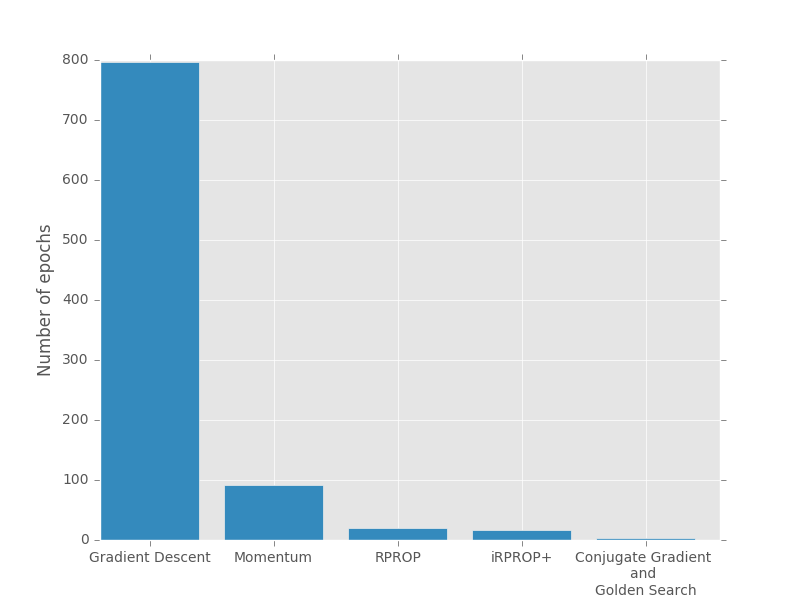
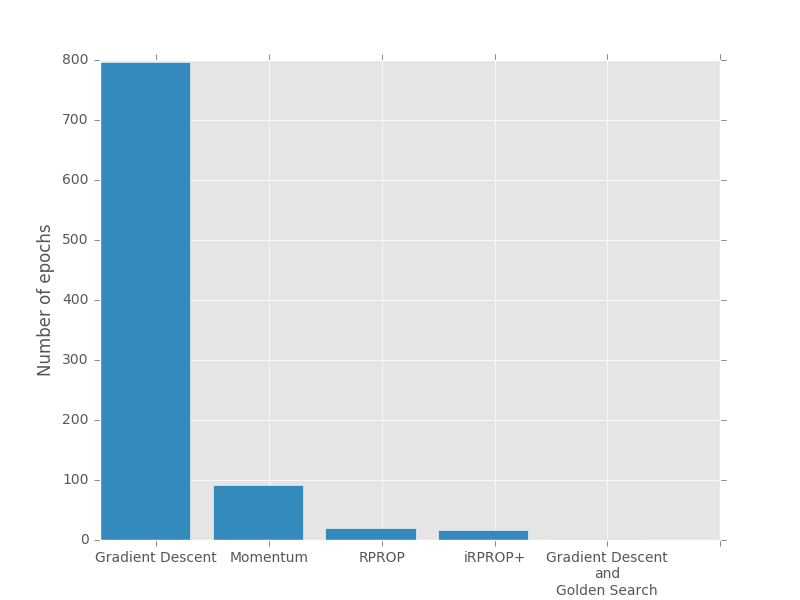
Updated article.

diff --git a/neupy/algorithms/gd/lev_marq.py b/neupy/algorithms/gd/lev_marq.py
@@ -82,8 +82,6 @@ class LevenbergMarquardt(NoStepSelection, GradientDescent):
 
     Examples
     --------
-    Simple example
-
     >>> import numpy as np
     >>> from neupy import algorithms
     >>>
@@ -95,48 +93,6 @@ class LevenbergMarquardt(NoStepSelection, GradientDescent):
     ...     verbose=False
     ... )
     >>> lmnet.train(x_train, y_train)
-
-    Diabets dataset example
-
-    >>> import numpy as np
-    >>> from sklearn import datasets, preprocessing
-    >>> from sklearn.cross_validation import train_test_split
-    >>> from neupy import algorithms, layers
-    >>> from neupy.estimators import rmsle
-    >>>
-    >>> dataset = datasets.load_diabetes()
-    >>> data, target = dataset.data, dataset.target
-    >>>
-    >>> data_scaler = preprocessing.MinMaxScaler()
-    >>> target_scaler = preprocessing.MinMaxScaler()
-    >>>
-    >>> x_train, x_test, y_train, y_test = train_test_split(
-    ...     data_scaler.fit_transform(data),
-    ...     target_scaler.fit_transform(target),
-    ...     train_size=0.85
-    ... )
-    >>>
-    >>> # Network
-    ... lmnet = algorithms.LevenbergMarquardt(
-    ...     connection=[
-    ...         layers.Input(10),
-    ...         layers.Sigmoid(40),
-    ...         layers.Sigmoid(1),
-    ...     ],
-    ...     mu_update_factor=2,
-    ...     mu=0.1,
-    ...     step=0.25,
-    ...     show_epoch=10,
-    ...     use_bias=False,
-    ...     verbose=False
-    ... )
-    >>> lmnet.train(x_train, y_train, epochs=100)
-    >>> y_predict = lmnet.predict(x_test)
-    >>>
-    >>> error = rmsle(target_scaler.inverse_transform(y_test),
-    ...               target_scaler.inverse_transform(y_predict).round())
-    >>> error
-    0.47548200957888398
 
     See Also
     --------

diff --git a/examples/mlp/gd_algorithms_visualization.py b/examples/mlp/gd_algorithms_visualization.py
@@ -144,8 +144,9 @@ draw_countour(
     network_target_function
 )
 
-cgnet_class = partial(algorithms.ConjugateGradient,
-                      addons=[algorithms.LinearSearch])
+cgnet_class = partial(algorithms.GradientDescent,
+                      addons=[algorithms.LinearSearch],
+                      search_method='golden')
 momentum_class = partial(algorithms.Momentum, batch_size='full')
 
 algorithms = (
@@ -153,7 +154,7 @@ algorithms = (
     (momentum_class, 'Momentum', 'g'),
     (algorithms.RPROP, 'RPROP', 'm'),
     (algorithms.IRPROPPlus, 'iRPROP+', 'r'),
-    (cgnet_class, 'Conjugate Gradient', 'y'),
+    (cgnet_class, 'Gradient Descent and\nGolden Search', 'y'),
 )
 
 patches = []

diff --git a/neupy/algorithms/step_update/leak_step.py b/neupy/algorithms/step_update/leak_step.py
@@ -39,12 +39,10 @@ class LeakStepAdaptation(SingleStepConfigurable):
     Examples
     --------
     >>> from neupy import algorithms
-    >>>
     >>> bpnet = algorithms.GradientDescent(
     ...     (2, 4, 1),
     ...     addons=[algorithms.LeakStepAdaptation]
     ... )
-    >>>
 
     .. [1] Noboru M. "Adaptive on-line learning in changing
         environments", 1997

diff --git a/neupy/algorithms/regularization/weight_elimination.py b/neupy/algorithms/regularization/weight_elimination.py
@@ -29,14 +29,12 @@ class WeightElimination(WeightUpdateConfigurable):
     Examples
     --------
     >>> from neupy import algorithms
-    >>>
     >>> bpnet = algorithms.GradientDescent(
     ...     (2, 4, 1),
     ...     step=0.1,
     ...     verbose=False,
     ...     addons=[algorithms.WeightElimination]
     ... )
-    >>>
 
     See Also
     --------

diff --git a/neupy/algorithms/regularization/weight_decay.py b/neupy/algorithms/regularization/weight_decay.py
@@ -23,14 +23,12 @@ class WeightDecay(WeightUpdateConfigurable):
     Examples
     --------
     >>> from neupy import algorithms
-    >>>
     >>> bpnet = algorithms.GradientDescent(
     ...     (2, 4, 1),
     ...     step=0.1,
     ...     verbose=False,
     ...     addons=[algorithms.WeightDecay]
     ... )
-    >>>
 
     See Also
     --------

diff --git a/neupy/algorithms/gd/conjgrad.py b/neupy/algorithms/gd/conjgrad.py
@@ -120,7 +120,7 @@ class ConjugateGradient(NoMultipleStepSelection, GradientDescent):
     >>>
     >>> error = estimators.rmsle(real, predicted)
     >>> error
-    0.20752676697596578
+    0.2472330191179734
 
     See Also
     --------

diff --git a/site/2015/07/04/visualize_backpropagation_algorithms.rst b/site/2015/07/04/visualize_backpropagation_algorithms.rst
@@ -3,7 +3,7 @@ Visualize Algorithms based on the Backpropagation
 
 .. contents::
 
-In this article we will test different algorithms based on the backpropagation method, visualize them and try to figure out some important features from a plot that we will get.
+In this article we will be testing different algorithms based on the backpropagation method, visualizing them and trying to figure out some important features from a blog that we will get.
 
 Checking data
 -------------
@@ -45,31 +45,31 @@ So we can make a scatter plot and look closer at this dots.
     :align: center
     :alt: Dataset scatter plot
 
-From the figure above we can clearly see that all dots are linearly separable and we are able to solve this problem with simple perceptron. But a goal of this article is to make clear visualization of learning process for different algorithm based on the backpropagation method, so the problem must be as simple as possible, because in other cases it will be complex to visualize.
+From the figure above we can clearly see that all dots are linearly separable and we are able to solve this problem with simple perceptron. But the goal of this article is to make clear visualization of learning process for different algorithm based on the backpropagation method, so the problem has to be as simple as possible, because in other cases it will be complex to visualize.
 
-So, as the problem is linear separable we can solve it without hidden layers in network. There are two features and two classes, so we can build network which will take 2 input values and produces 1 output. We need just two weights, so we can visualize them in contour plot.
+So, since the problem is linear separable we can solve it without hidden layers in network. There are two features and two classes, so we can build network which will take 2 input values and will produce 1 output. We need just two weights, so we can visualize them in contour plot.
 
 Initialize contour
 ------------------
 
-I wouldn't add all code related to the plots building in the article. In case if you are interested in the all code you can check the main script `here <https://github.com/itdxer/neupy/blob/master/examples/mlp/gd_algorithms_visualization.py>`_.
+I won't  add all code related to the plots building in the article. In case if you are interested you can check the main script `here <https://github.com/itdxer/neupy/blob/master/examples/mlp/gd_algorithms_visualization.py>`_.
 
 .. image:: images/visualize_gd/raw-contour-plot.png
     :width: 80%
     :align: center
     :alt: Approximation function contour plot
 
-The plot above shows error rate that depends on the network's weights. The best result corresponds to the smallest error value. The best weights combination for this problem should be near the lower right corner in the white area.
+The plot above shows error rate that depends on the network's weights. The best result corresponds to the smallest error value. The best weights combination for this problem should be near the bottom right corner in the white area.
 
-Next, we are going to look at 5 algorithms based on the backpropagation. They are:
+Next, we are going to look at 5 algorithms based on the Backpropagation. They are:
 
 * Gradient descent
 * Momentum
 * RPROP
 * iRPROP+
-* Conjugate Gradient + Golden Search
+* Gradient Descent + Golden Search
 
-Let's define start point for our algorithms. I've chosen the (-4, -4) point, because at this point network gives bad results and it will be iteresting to observe learning progress from a bad initialization point. In the script you can set up any other starting point you like.
+Let's define start point for our algorithms. I've chosen the `(-4, -4)` point, because at this point network gives bad results and it will be interesting to observe the learning progress from a bad initialization point. In the script you can set up any other starting point you like.
 
 This function will train the network until the error will be smaller than `0.125`. Every network starts at place with coordinates `(-4, -4)` and finishes near the point with the error value lower than `0.125`.
 
@@ -86,16 +86,16 @@ Let's primarily check :network:`Gradient Descent <GradientDescent>`.
     :align: center
     :alt: Weight update steps for the Gradient Descent
 
-Gradient Descent got to the value close to 0.125 using 797 steps and this black curve is just tiny steps of gradient descent algorithm. We can zoom it and look closer.
+Gradient Descent got to the value close to 0.125 using 797 steps and this black curve is just tiny steps of gradient descent algorithm. We can zoom it and look even closer.
 
 .. figure:: images/visualize_gd/bp-steps-zoom.png
     :width: 80%
     :align: center
     :alt: Zoomed weight update steps for the Gradient Descent
 
-Now we can see some information about gradient descent algorithm. All steps for gradient descent algorithm have approximately similar magnitude. Their direction doesn't vary because contours in the zoomed picture are parallel to each other and in it we can see that there is still a lot of steps to achieve the minimum. Also we can see that small vectors are perpendicular to the contour.
+Now we can see some information about gradient descent algorithm. All steps for gradient descent algorithm have approximately similar magnitude. Their direction doesn't vary because contours in the zoomed picture are parallel to each other and in it we can see that there are still a lot of steps that are needed to be made to achieve the minimum. Also we can see that small vectors are perpendicular to the contour.
 
-The problem is that the step size a very sensitive parameter for the gradient descent. In typical problem we won't be able to visualize the learning progress and we won't have an ability to see that our updates over the epochs are inefficient. For this result I've used step size equal to ``0.3``, but if we had increase it to ``10`` we would reach our goal in ``25`` steps. I haven't added any improvments to make a fair comparison between other algorithms in the summary chapter.
+The problem is that the step size is a very sensitive parameter for the gradient descent. In typical problem we won't be able to visualize the learning progress and we won't have an ability to see that our updates over the epochs are inefficient. For this result I've used step size equal to ``0.3``, but if we increased it to ``10`` we would reach our goal in ``25`` steps. I haven't added any improvements to make a fair comparison to other algorithms in the summary chapter.
 
 Momentum
 ++++++++
@@ -107,30 +107,30 @@ Now let's look at another very popular algorithm - :network:`Momentum`.
     :align: center
     :alt: Momentum steps
 
-:network:`Momentum` got to the value close to 0.125 by 92 steps, which is more than 8 times fewer steps than for the gradient descent. The basic idea behind :network:`Momentum` algorithm is that it accumulates gradients from the previous epochs. It means that if the graient has the same direction after each epoch weight update vector magnitude will increase. But if the gradient stars changing its direction weight update vector magnitude will decrease. Check the the figure again. Imagine that you stands near the pool with a very smooth surface. Than you just throw a ball inside of the pool in a way that makes it roll over the surface. While it rolls down gravity force drags it down and it makes ball roll faster and faster. Let's get back to the :network:`Momentum` algorithm and try to find these properties in the plot.
+:network:`Momentum` got to the value close to 0.125 by 92 steps, which is more than 8 times less than for the gradient descent. The basic idea behind :network:`Momentum` algorithm is that it accumulates gradients from the previous epochs. It means that if the gradient has the same direction after each epoch weight update vector magnitude will increase. But if the gradient stars changing its direction weight update vector magnitude will decrease. Check the figure again. Imagine that you're standing at a skatepark. Than you throw a ball into a half-pipe in a way that makes it roll smoothly on the surface. While it rolls down the gravity force drags it down and it makes the ball roll faster and faster. Let's get back to the :network:`Momentum` algorithm and try to find these properties in the plot.
 
 .. figure:: images/visualize_gd/momentum-steps-zoom.png
     :width: 80%
     :align: center
     :alt: Momentum steps zoom on increasing weight update size
 
-When we zoom the plot we can see that the direction for weight update vectors is almost the same and gradient's direction doesn't change after each epoch. At the end of the zoomed plot above vector is bigger than the first one on the same plot. Since we always want to move forward we just speed up in one direction.
+When we zoom the plot we can see that the direction for weight update vectors is almost the same and gradient's direction doesn't change after every epoch. In the picture above the vector which is the last on the right is bigger than the first one on the same plot on the left. Since it always moves forward it speeds up.
 
-Let's get back to the ball example. What happens if the ball reach the bottom of the pool? Would it stop? Of cource not. Ball gained enough speed to keep moving forward. So it will go up. The ball starts slowing down, because gravity force is continue pooling it towards the bottom of the pool. Let's try to find similar behviour in the same plot.
+Let's get back to the ball example. What happens when the ball reaches the pit of the half-pipe for the first time? Will it stop? Of course not. Ball gained enough speed for moving. So it will go up. But after that the ball will start to slow down and its amplitude will become smaller and smaller, because of the gravity force, that will continue to push it down to the pit and eventually it will stop to move. Let's try to find the similar behavior in the same plot.
 
 .. figure:: images/visualize_gd/momentum-steps-zoom-decrease.png
     :width: 80%
     :align: center
     :alt: Momentum steps zoom on decreasing weight update size
 
-From the figure above it’s clear that weight update magnitude become smaller. Like a ball that slows down and changes its direction towards the minimum.
+From the figure above it’s clear that weight update magnitude became smaller. Like a ball that slows down and changes its direction towards the minimum.
 
-And finaly to make it even more intuitive you can check weight update trajectory in 3D plot. It looks much closer to the ball and pool analogy than previous plot.
+And finally to make it even more intuitive you can check weight update trajectory in 3D plot. It looks much more like the ball and half-pipe in skatepark analogy.
 
 .. figure:: images/visualize_gd/momentum-3d-trajectory.png
     :width: 80%
     :align: center
-    :alt: Momentum 3D trajector
+    :alt: Momentum 3D trajectory
 
 RPROP
 +++++
@@ -142,43 +142,43 @@ RPROP
     :align: center
     :alt: RPROP steps
 
-This improvment looks impressive. Now we are able to see steps without zooming. We got almost the same value as before using just 20 steps, which is approximately 5 times fewer than :network:`Momentum` and approximately 40 times fewer than :network:`Gradient Descent <GradientDescent>`.
+This improvement looks impressive. Now we are able to see steps without zooming. We got almost the same value as before using just 20 steps, which is approximately 5 times less than :network:`Momentum` and approximately 40 times less than :network:`Gradient Descent <GradientDescent>`.
 
-Now we are going to figure out what are the main features of :network:`RPROP` just by looking at the plot above. :network:`RPROP` has a unique step for each weight. There are just two steps for each weight in the input layer for this network. :network:`RPROP` will increase the step size if gradient don't change the sign compare to previous epoch, and it will decrease otherwise.
+Now we are going to figure out what are the main features of :network:`RPROP`. We can notice just by looking at the plot above :network:`RPROP` has a unique step for each weight. There are just two steps for each weight in the input layer for this network. :network:`RPROP` will increase the step size if gradient don't change the sign compare to previous epoch, and it will decrease otherwise.
 
-Let's check a few first weights updates.
+Let's check a few first weight updates.
 
 .. figure:: images/visualize_gd/rprop-first-11-steps.png
     :width: 80%
     :align: center
     :alt: RPROP first 11 steps
 
-From the figure above you can see that first 11 updates have the same direction, so both steps are increase after each iteration. For the first epoch steps are equal to the same value which we set up at network initialization step. On the every next iterations they have been increased by the same constant factor, so after six iteration they became bigger, but they are still equal because they move in one direction all the time.
+From the figure above you can see that first 11 updates have the same direction, so both steps increase their value after each iteration. For the first epoch steps are equal to the same value which we set up at network initialization step. In further iterations they increased by the same constant factor, so after six iteration they got bigger, but they are still equal because they move in one direction all the time.
 
-Now let's check the next epochs from the figure below. On the 12th epoch gradient changed the direction, but steps are still the same. But we can clearly see that gradient changed the sign for the second weight. :network:`RPROP` updated the step after weight had updated, so the step for the second weight must be fewer for the 13th epoch.
+Now let's check the next epochs from the figure below. At the 12th epoch gradient changed the direction, but steps are still the same in value. But we can clearly see that gradient changed the sign for the second weight. :network:`RPROP` updated the step after weight had updated, so the step for the second weight should be smaller for the 13th epoch.
 
 .. figure:: images/visualize_gd/rprop-11th-to-14th-epochs.png
     :width: 80%
     :align: center
     :alt: RPROP from 11th to 14th steps
 
-Now let's look at the 13th epoch. It shows us how gradient sign difference on the 12th epoch updated steps. Now the steps are not equal. From the picture above we can see that update on the second weight (y axis) is smaler than on the first weight (x axis).
+Now let's look at the 13th epoch. It shows us how gradient sign difference at the 12th epoch updated steps. Now the steps are not equal. From the picture above we can see that update on the second weight (y axis) is smaller than on the first weight (x axis).
 
-On the 16th epoch gradient on y axis changed the sign again. Network decreased by constant factor and update for the second weight on the 17th epoch would be fewer than on the 16th.
+At the 16th epoch gradient on y axis changed the sign again. Network decreased by constant factor and updated for the second weight at the 17th epoch would be smaller than at the 16th.
 
-To train your intuition you can check the other epochs updates and try to figure out how steps are dependent on the direction.
+To train your intuition you can check the other epochs updates and try to figure out how steps depend on the direction.
 
 iRPROP+
 +++++++
 
-:network:`iRPROP+ <IRPROPPlus>` is almost the same algorithm as :network:`RPROP` except a small addition.
+:network:`iRPROP+ <IRPROPPlus>` is almost the same algorithm as :network:`RPROP` except a small alteration.
 
 .. figure:: images/visualize_gd/irprop-plus-steps.png
     :width: 80%
     :align: center
     :alt: iRPROP+ steps
 
-As in :network:`RPROP` algorithm :network:`iRPROP+ <IRPROPPlus>` make exacly the same first 11 steps.
+As in :network:`RPROP` algorithm :network:`iRPROP+ <IRPROPPlus>` make exactly the same first 11 steps.
 
 Now let's look at the 12th step in the figure below.
 
@@ -187,25 +187,25 @@ Now let's look at the 12th step in the figure below.
     :align: center
     :alt: iRPROP+ second part
 
-Second weight (on the y axis) didn't change the value. On the same epoch :network:`RPROP` changed the gradient comparing to the previous epoch and just decreased step value after weight update. Instead, :network:`iRPROP+ <IRPROPPlus>` disabled weight update for current epoch (set it up to `0`). And of course it also decreased the step for the second weight. Also you can find that vector for the 12th epoch that looks smaller than for the :network:`RPROP` algorithm, because we ignored the second weight update. If we check the x axis update size we will find that it has the same value as in :network:`RPROP` algorithm.
+Second weight (on the y axis) didn't change the value. At the same epoch :network:`RPROP` changed the gradient comparing to the previous epoch and just decreased step value after weight update whereas, :network:`iRPROP+ <IRPROPPlus>` disabled weight update for current epoch (set it up to `0`). And of course it also decreased the step for the second weight. Also you can find that vector for the 12th epoch that looks smaller than for the :network:`RPROP` algorithm, because we ignored the second weight update. If we check the x axis update size we will find that it has the same value as in :network:`RPROP` algorithm.
 
-On 13th epoch network included again second weight into the update process, because compared to the previous epoch gradient didn't change its sign.
+At 13th epoch network again included second weight into the update process, because compared to the previous epoch gradient didn't change its sign.
 
-Next steps are doing the same job, but 15th epoch differs from others. There are a few updates which are related specifically to :network:`iRPROP+ <IRPROPPlus>`, but the most important we have not seen before. After weight update on the 15th epoch network error increased, so our update made our prediction worse. Now on the 16th epoch network tried to rollback vector update. It decreased steps on the 15th epoch and weight update didn't go to the same point after the rollback procedure, it just took opposite direction with a smaller step.
+The nice thing about this algorithm is that it tries to move in a new direction instead of going back and force and trying to redo updates from the previous epochs.
 
-Conjugate Gradient and Golden Search
-++++++++++++++++++++++++++++++++++++
+Gradient Descent and Golden Search
+++++++++++++++++++++++++++++++++++
 
-Now let's look at :network:`Conjugate Gradient <ConjugateGradient>` with :network:`Golden Search <LinearSearch>`. Conjugate Gradient in Neural Network variation is a little bit different than in numerical optimizations notation and it doesn't guarantee converge into n-th steps (`n` means dimmention size for specific problem). Steps don't have a perfect size for :network:`Conjugate Gradient <ConjugateGradient>`, so :network:`Golden Search <LinearSearch>` is always a good choice for a step selection.
+The last algorithm that I want to show is a :network:`Golden Search <LinearSearch>`. This algorithm is not able to train a network by itself, but it can help other algorithms to do it better. I will use Gradient Descent to show the huge improvement that gives :network:`Golden Search <LinearSearch>`.
 
-.. figure:: images/visualize_gd/conj-grad-and-gold-search-steps.png
+.. figure:: images/visualize_gd/grad-descent-and-gold-search-steps.png
     :width: 80%
     :align: center
-    :alt: Conjugate Gradient with Golden Search steps
+    :alt: Gradient Descent with Golden Search steps
 
-From the figure above we can see almost perfect step for the specific direction. S. Each of the fourth steps make a great choice for the step size. Of course it's not a great assumption. Golden Search is just trying to figure out the most perfect step size by using a simple search and trying multiple different choices. In any case it's doing a greate job.
+It took just two steps to reach the goal. Let's check the first step. :network:`Golden Search <LinearSearch>` helps to find the best step size that can be in a specified direction. So basically, it just tries multiple combinations until it finds the best one. As you can see from the plot the first step size is almost perfect for the specified direction. If you went farther you would increase the error.
 
-Finally network made 4 steps. If we add the same :network:`Golden Search <LinearSearch>` algorithm to the classic Gradient Descent we will get to the minimum using just 2 steps. You can try it by your own.
+The main disadvantage of :network:`Golden Search <LinearSearch>` is a time complexity. It will take a while to find a good step in specified direction. So for the more complicated networks it can take a lot of time to find a perfect step size.
 
 Bring them all together
 -----------------------
@@ -225,18 +225,16 @@ Summary
     Momentum, 92
     RPROP, 20
     iRPROP+, 17
-    Conjugate Gradient + Golden Search, 4
+    Gradient Descent + Golden Search, 2
 
 .. figure:: images/visualize_gd/compare-number-of-epochs.png
     :width: 80%
     :align: center
     :alt: Compare number of epochs
 
-There is no perfect algorithm for neural network that can solve all problems.
-All of them have there own pros and cons.
-Some of the algorithms can be memory or computationally expensive and you have to choose an algorithm depend on the task which you want to solve.
+There is no perfect algorithm for neural network that can solve all problems. All of them have their own pros and cons. Some of the algorithms can be memory or computationally overwhelming and you have to choose an algorithm depending on the task you want to solve.
 
-All code is available in `GitHub <https://github.com/itdxer/neupy/blob/master/examples/mlp/gd_algorithms_visualization.py>`_. You can play around the script and set up the different learning algorithms and hyperparameters. More algorithms you can find in NeuPy's :ref:`cheat-sheet`.
+All code is available at `GitHub <https://github.com/itdxer/neupy/blob/master/examples/mlp/gd_algorithms_visualization.py>`_. You can play around with the script and set up different learning algorithms and hyperparameters. More algorithms you can find at NeuPy's :ref:`cheat-sheet`.
 
 .. author:: default
 .. categories:: none

diff --git a/README.rst b/README.rst
@@ -86,7 +86,7 @@ Memory based Neural Networks
 Dependencies
 ------------
 
-* Python 2.7, 3.4
+* Python 2.7, 3.4, 3.5
 * Theano >= 0.8.1
 * NumPy >= 1.9.0
 * SciPy >= 0.14.0
